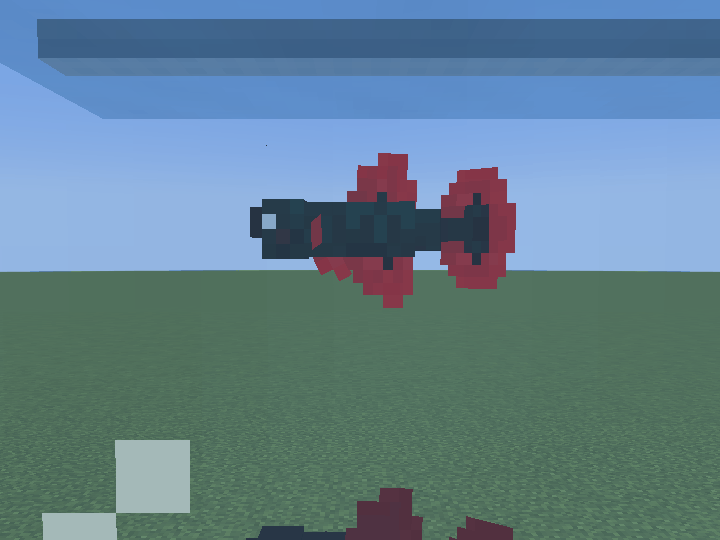
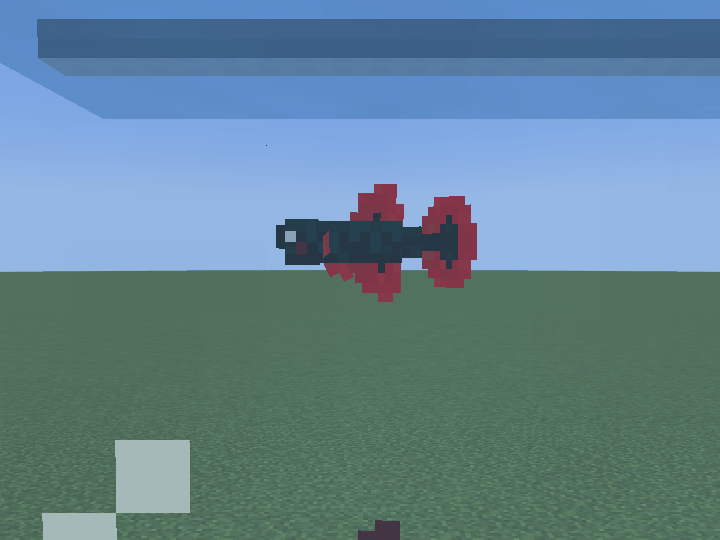
M36: handbook en+de (size section, settings row), betta pictures cropped again at the new size, picture of both sizes

Changed region(s): [[0.3361, 0.2667, 0.7333, 0.5926], [0.3361, 0.8889, 0.7333, 1.0]]

diff --git a/tools/assetgen/guide_images.py b/tools/assetgen/guide_images.py
@@ -746,6 +746,56 @@ def m30c(out_en: Path) -> None:
         save(im.resize((w, round(im.height * w / im.width)), Image.LANCZOS), out_en / f"{name}.png")
 
 
+# M36 scene (DevClientSmokeM36, -Psmoketestm36, without -Pcompare): the same community tank at Normal and Large side by
+# side -> images/betta_sizes.png. ``py guide_images.py m36`` also crops again every handbook image that shows our bettas
+# (from fresh -Psmoketestworld, -Psmoketestm11, -Psmoketestm15 and -Psmoketestm29c runs: the bettas are smaller since M36).
+M36_SIZES = (("bettacraft_m36_tank_normal", "bettacraft_m36_tank_large"), (240, 250, 1000, 600))
+M36_WORLD = ("tank", "nest", "stages", "forms", "varieties")
+
+
+def m36(out_en: Path) -> None:
+    names, box = M36_SIZES
+    srcs = [SHOTS / f"{n}.png" for n in names]
+    if all(p.exists() for p in srcs):
+        a, b = (Image.open(p).convert("RGB").crop(box) for p in srcs)
+        gap = 8
+        im = Image.new("RGB", (a.width + gap + b.width, a.height), (255, 255, 255))
+        im.paste(a, (0, 0))
+        im.paste(b, (a.width + gap, 0))
+        w = 900
+        save(im.resize((w, round(im.height * w / im.width)), Image.LANCZOS), out_en / "betta_sizes.png")
+    else:
+        print("missing", srcs)
+    for name in M36_WORLD:
+        src = SHOTS / f"guide_{name}.png"
+        if src.exists():
+            save(Image.open(src).convert("RGB").crop(WORLD[name]), out_en / f"{name}.png")
+        else:
+            print("missing", src)
+    for name in ("mirror_stick",):
+        shot, box = M11_WORLD[name]
+        src = SHOTS / f"{shot}.png"
+        if src.exists():
+            save(Image.open(src).convert("RGB").crop(box), out_en / f"{name}.png")
+        else:
+            print("missing", src)
+    for name, (shot, box) in M15_WORLD.items():
+        src = SHOTS / f"{shot}.png"
+        if src.exists():
+            save(Image.open(src).convert("RGB").crop(box), out_en / f"{name}.png")
+        else:
+            print("missing", src)
+    for name in ("betta_imbellis", "betta_smaragdina"):
+        shot, box = M29C_WORLD[name]
+        src = SHOTS / f"bettacraft_m29c_{shot}.png"
+        if not src.exists():
+            print("missing", src)
+            continue
+        im = Image.open(src).convert("RGB").crop(box)
+        w = min(800, im.width)
+        save(im.resize((w, round(im.height * w / im.width)), Image.LANCZOS), out_en / f"{name}.png")
+
+
 def save(im: Image.Image, path: Path) -> None:
     """256-colour PNG (screenshots of blocky scenes lose nothing visible, the jar stays small)."""
     im.convert("RGB").quantize(256, method=Image.Quantize.MEDIANCUT, dither=Image.Dither.NONE).save(path, optimize=True)
@@ -760,6 +810,9 @@ def main() -> int:
     out_de = GUIDE / "_de_de" / "images"
     out_en.mkdir(parents=True, exist_ok=True)
     out_de.mkdir(parents=True, exist_ok=True)
+    if sys.argv[1:] == ["m36"]:
+        m36(out_en)
+        return 0
     if sys.argv[1:] == ["m30c"]:
         m30c(out_en)
         return 0

diff --git a/src/main/resources/assets/bettacraft/guides/bettacraft/guide/_de_de/bettas.md b/src/main/resources/assets/bettacraft/guides/bettacraft/guide/_de_de/bettas.md
@@ -47,6 +47,16 @@ Der Tooltip von Eimer und Tüte zeigt Typ, Geschlecht, Farben, Muster und Schimm
 Männchen haben lange, bunte Flossen. Weibchen haben kürzere Flossen, sind etwas blasser und zeigen in Zuchtstimmung
 senkrechte Querstreifen. Das Geschlecht steht als ♂ und ♀ im Aquarium-Menü und in Jade.
 
+## Größe
+
+Bettas gibt es in zwei Größen, die der Server für alle einstellt (Server-Config `sizes.betta`): **Normal** (Standard)
+oder **Groß** (`LARGE`), die Größe von Bettacraft vor 1.28 (Normal ist 0,77 davon, ein erwachsenes Männchen mit
+Schwanz etwa einen halben Block lang). Fisch und Hitbox ändern sich zusammen, jedes Lebensstadium im Verhältnis, sofort
+und ohne Neustart. Es ist nur das Aussehen: Besatz, Zucht und die Daten der Fische bleiben gleich, man kann also beliebig
+hin- und herschalten.
+
+![Dasselbe Becken in Normal (links) und Groß (rechts)](images/betta_sizes.png)
+
 ## Bezug
 
 * **Wild** in Sümpfen, in Gruppen von 1–2 (Spawn-Gewicht 8).

diff --git a/src/main/resources/assets/bettacraft/guides/bettacraft/guide/bettas.md b/src/main/resources/assets/bettacraft/guides/bettacraft/guide/bettas.md
@@ -45,6 +45,15 @@ The tooltip of a bucket or bag shows the type, sex, colours, pattern and iridesc
 Males have long, colourful fins. Females have shorter fins, are a little paler and show vertical bars when they are in
 breeding mood. The sex is shown with ♂ and ♀ in the tank menu and in Jade.
 
+## Size
+
+Bettas come in two sizes, set by the server for everyone (server config `sizes.betta`): **Normal** (the default) or
+**Large**, the size of Bettacraft before 1.28 (Normal is 0.77 of it, an adult male with its tail about half a block
+long). The fish and their hitbox change together, every life stage in proportion, at once and without a restart. It is
+only the look: the stocking, the breeding and the fish's data stay the same, so you can switch back and forth.
+
+![The same tank at Normal (left) and Large (right)](images/betta_sizes.png)
+
 ## Obtaining
 
 * **Wild** in swamps, in groups of 1–2 (spawn weight 8).

diff --git a/src/main/resources/assets/bettacraft/guides/bettacraft/guide/_de_de/settings.md b/src/main/resources/assets/bettacraft/guides/bettacraft/guide/_de_de/settings.md
@@ -35,6 +35,7 @@ navigation:
 | `combat.*` | | `malesFight`, `fightDays`, `predatorAttacksPerDay`, `healPerDay` |
 | `food.fryPerItem`, `food.cultureDays` | 20, 1 | Jungfische pro Flasche, Tage für einen Ansatz |
 | `stages.*Days` | | Dauer der Lebensstufen |
+| `sizes.betta` | NORMAL | wie groß die [Bettas](bettas.md) dargestellt werden, mit ihrer Hitbox: NORMAL oder LARGE (Groß, die Größe vor 1.28); nur das Aussehen, wirkt sofort für alle Spieler |
 | `interior.defaultScale` | 16 | 4, 8 oder 16 Innenraum-Blöcke pro Aquarium-Block (neue Aquarien) |
 | `interior.substrateCostsBlock` | true | Bodengrund kostet einen Block |
 | `interior.maxRenderedBlocks` | 262144 | Limit der Miniatur |

diff --git a/src/main/resources/assets/bettacraft/guides/bettacraft/guide/settings.md b/src/main/resources/assets/bettacraft/guides/bettacraft/guide/settings.md
@@ -35,6 +35,7 @@ navigation:
 | `combat.*` | | `malesFight`, `fightDays`, `predatorAttacksPerDay`, `healPerDay` |
 | `food.fryPerItem`, `food.cultureDays` | 20, 1 | fry per bottle, days a culture needs |
 | `stages.*Days` | | duration of the life stages |
+| `sizes.betta` | NORMAL | how big the [bettas](bettas.md#size) are drawn, with their hitbox: NORMAL or LARGE (the size before 1.28); only the look, works at once for every player |
 | `interior.defaultScale` | 16 | 4, 8 or 16 interior blocks per tank block (new aquariums) |
 | `interior.substrateCostsBlock` | true | substrate costs a block |
 | `interior.maxRenderedBlocks` | 262144 | limit of the miniature |
